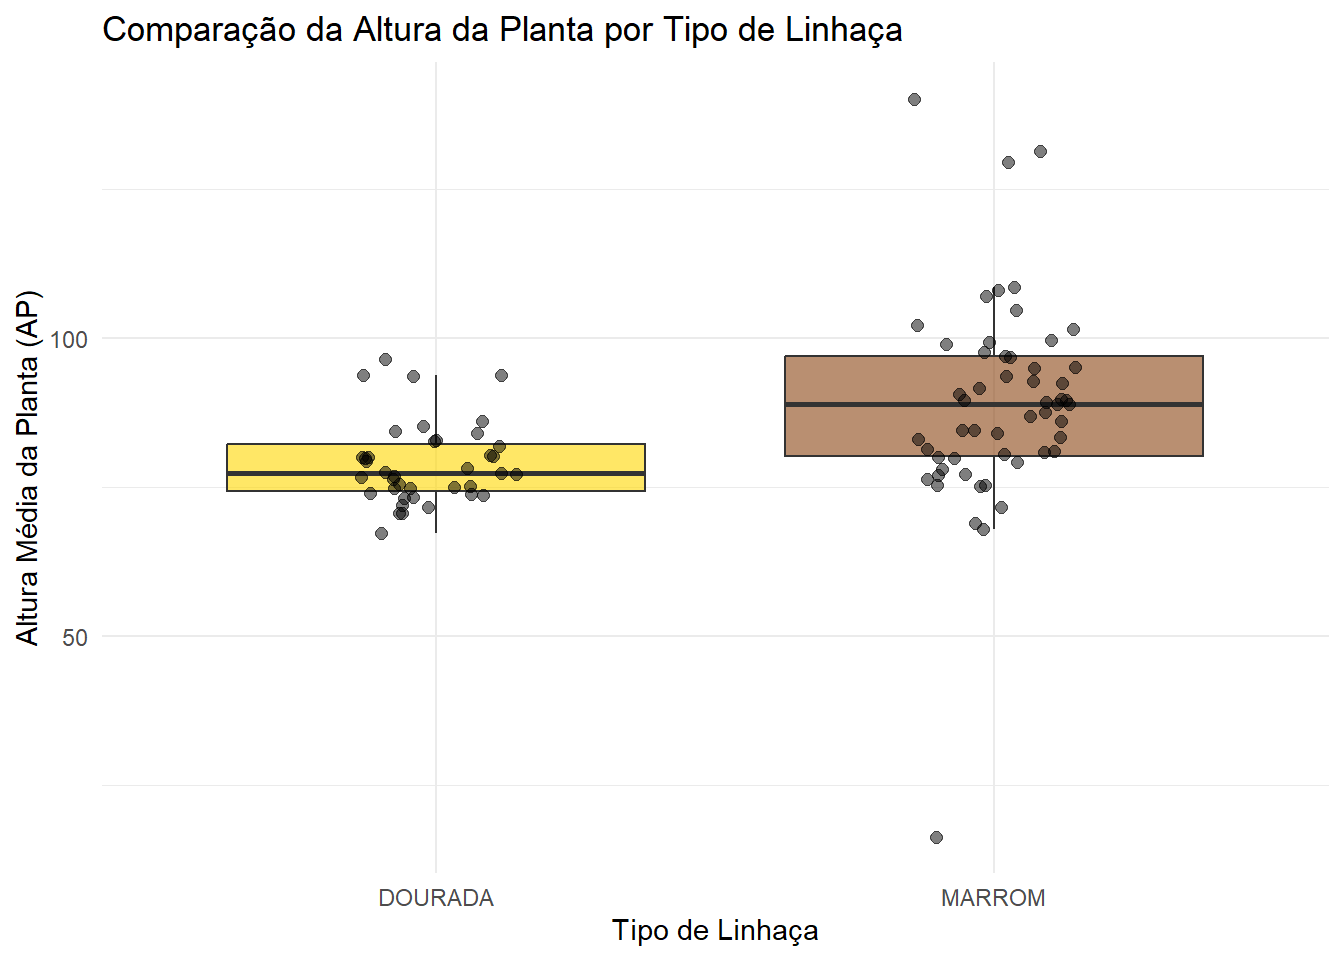
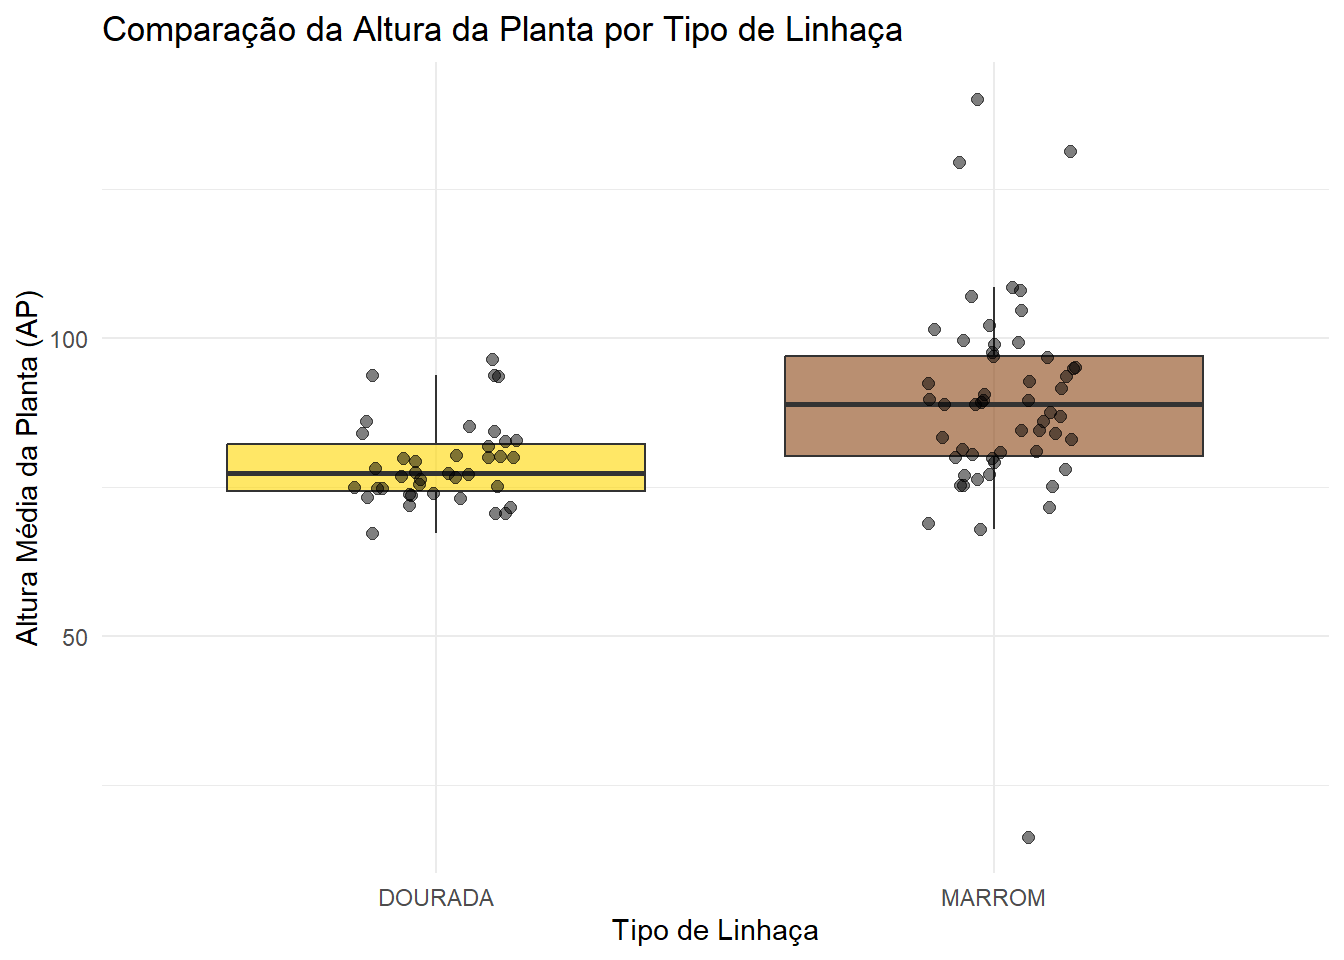
atualizar site

diff --git a/docs/desafio_2026.html b/docs/desafio_2026.html
@@ -146,7 +146,10 @@ ul.task-list li input[type="checkbox"] {
   </ul></li>
   <li><a href="#teste" id="toc-teste" class="nav-link" data-scroll-target="#teste">Teste</a>
   <ul class="collapse">
-  <li><a href="#teste-2" id="toc-teste-2" class="nav-link" data-scroll-target="#teste-2">Teste 2</a></li>
+  <li><a href="#teste-2" id="toc-teste-2" class="nav-link" data-scroll-target="#teste-2">Teste 2</a>
+  <ul class="collapse">
+  <li><a href="#teste-3" id="toc-teste-3" class="nav-link" data-scroll-target="#teste-3">Teste 3</a></li>
+  </ul></li>
   </ul></li>
   </ul>
 </nav>
@@ -279,8 +282,11 @@ ul.task-list li input[type="checkbox"] {
 <h1>Teste</h1>
 <section id="teste-2" class="level2">
 <h2 class="anchored" data-anchor-id="teste-2">Teste 2</h2>
+<section id="teste-3" class="level3">
+<h3 class="anchored" data-anchor-id="teste-3">Teste 3</h3>
 
 
+</section>
 </section>
 </section>
 
